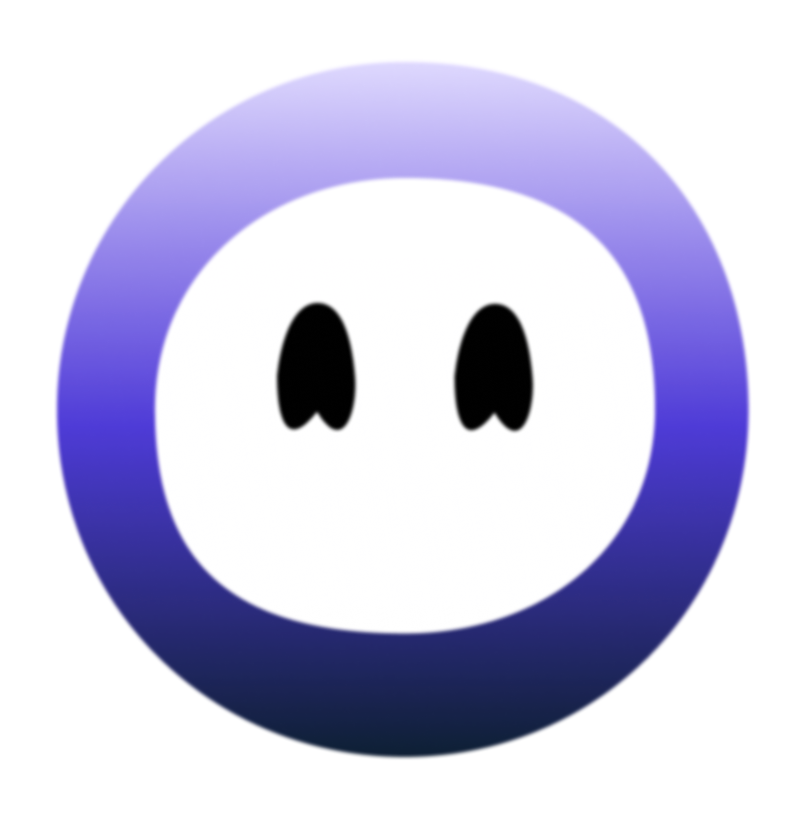
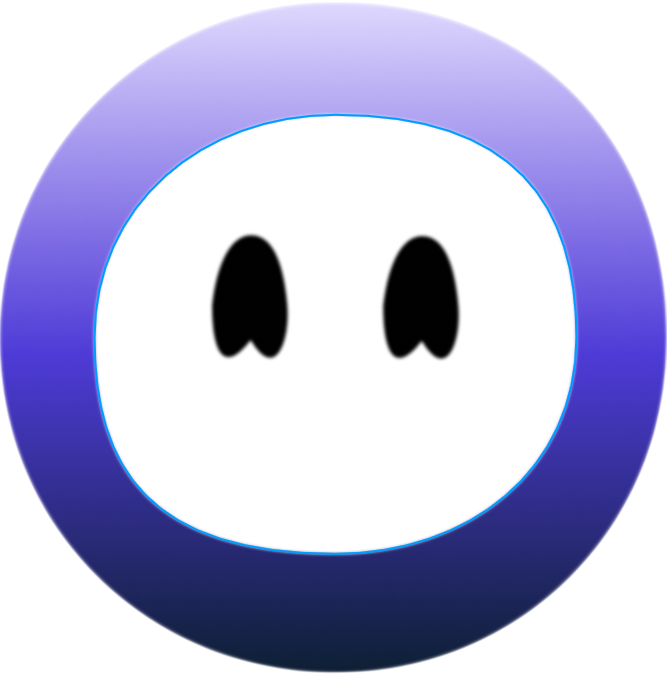
transparent bg

diff --git a/app/page.tsx b/app/page.tsx
@@ -104,7 +104,7 @@ export default function LandingPage() {
           <div className="flex items-center gap-2 font-bold">
             {mounted && (
               <Image
-                src={theme === "dark" ? "/icon-black-bg.png" : "/icon-white-bg.png"}
+                src="/icon2.png"
                 alt="Megan"
                 width={32}
                 height={32}
@@ -207,9 +207,9 @@ export default function LandingPage() {
                 {t('heroSubtitle')}
               </p>
               <div className="flex flex-col sm:flex-row gap-4 justify-center">
-                <Link href={isAuth ? "/account" : "/auth"}>
+                <Link href={"https://chromewebstore.google.com/detail/Megan:%20Your%20AI%20assistant/pjlfhimkiplnokedfbefdifljllolamg?hl=en-GB&utm_source=ext_sidebar"}>
                   <Button size="lg" className="rounded-full h-12 px-8 text-base bg-gradient-to-r from-purple-600 to-purple-1200 hover:from-purple-600 hover:to-purple-700 text-white border-none">
-                    {t('getStarted')}
+                    {t('addToChrome')}
                     <ArrowRight className="ml-2 size-4" />
                   </Button>
                 </Link>
@@ -657,7 +657,7 @@ export default function LandingPage() {
               <div className="flex items-center gap-2 font-bold">
                 {mounted && (
                   <Image
-                    src={theme === "light" ? "/icon-white-bg.png" : "/icon-black-bg.png"}
+                    src="/icon2.png"
                     alt="Megan"
                     width={32}
                     height={32}

diff --git a/lib/i18n.ts b/lib/i18n.ts
@@ -27,7 +27,8 @@ export const translations = {
         // Hero section
         heroTitle: 'Streamline Your Web Experience',
         heroSubtitle: 'Boost productivity, talk with browser, feel relaxed',
-        getStarted: 'Get Started',
+        getStarted: "Get started",
+        addToChrome: "Add to chrome - It's free",
         noCreditCard: 'No credit card',
         sevenDayTrial: '7-day trial',
         cancelAnytime: 'Cancel anytime',
@@ -436,6 +437,7 @@ export const translations = {
         heroTitle: 'Оптимизируйте Ваш Веб-Опыт',
         heroSubtitle: 'Повысьте продуктивность, общайтесь с браузером, чувствуйте себя расслабленно',
         getStarted: 'Начать',
+        addToChrome: 'Добавить в chrome - это бесплатно',
         noCreditCard: 'Без кредитной карты',
         sevenDayTrial: '7-дневный пробный период',
         cancelAnytime: 'Отменить в любое время',

diff --git a/app/contact/page.tsx b/app/contact/page.tsx
@@ -31,7 +31,7 @@ export default function ContactPage() {
                     <Link href="/" className="flex items-center gap-2 font-bold hover:opacity-80 transition-opacity">
                         <div className="size-8 rounded-lg bg-gradient-to-br from-primary to-primary/70 flex items-center justify-center text-primary-foreground">
                             {mounted && (
-                                <img src={theme === "dark" ? "/icon-black-bg.png" : "/icon-white-bg.png"} alt="Megan" className="size-8" />
+                                <img src="/icon2.png" alt="Megan" className="size-8" />
                             )}
                         </div>
                         <span>Megan</span>

diff --git a/app/privacy/page.tsx b/app/privacy/page.tsx
@@ -35,7 +35,7 @@ export default function PrivacyPage() {
                     <Link href="/" className="flex items-center gap-2 font-bold hover:opacity-80 transition-opacity">
                         <div className="size-8 rounded-lg bg-gradient-to-br from-primary to-primary/70 flex items-center justify-center text-primary-foreground">
                             {mounted && (
-                                <img src={theme === "dark" ? "/icon-black-bg.png" : "/icon-white-bg.png"} alt="Megan" className="size-8" />
+                                <img src="/icon2.png" alt="Megan" className="size-8" />
                             )}
                         </div>
                         <span>Megan</span>

diff --git a/app/about/page.tsx b/app/about/page.tsx
@@ -30,7 +30,7 @@ export default function AboutPage() {
                     <Link href="/" className="flex items-center gap-2 font-bold hover:opacity-80 transition-opacity">
                         <div className="size-8 rounded-lg bg-gradient-to-br from-primary to-primary/70 flex items-center justify-center text-primary-foreground">
                             {mounted && (
-                                <img src={theme === "dark" ? "/icon-black-bg.png" : "/icon-white-bg.png"} alt="Megan" className="size-8" />
+                                <img src="/icon2.png" alt="Megan" className="size-8" />
                             )}
                         </div>
                         <span>Megan</span>

diff --git a/app/terms/page.tsx b/app/terms/page.tsx
@@ -29,7 +29,7 @@ export default function TermsPage() {
                     <Link href="/" className="flex items-center gap-2 font-bold hover:opacity-80 transition-opacity">
                         <div className="size-8 rounded-lg bg-gradient-to-br from-primary to-primary/70 flex items-center justify-center text-primary-foreground">
                             {mounted && (
-                                <img src={theme === "dark" ? "/icon-black-bg.png" : "/icon-white-bg.png"} alt="Megan" className="size-8" />
+                                <img src="/icon2.png" alt="Megan" className="size-8" />
                             )}
                         </div>
                         <span>Megan</span>

diff --git a/app/confirm-password/page.tsx b/app/confirm-password/page.tsx
@@ -29,7 +29,7 @@ export default function ConfirmPasswordPage() {
                         <ArrowLeft className="size-4" />
                         <div className="flex items-center gap-2">
                             <div className="size-8 rounded-lg bg-gradient-to-br from-primary to-primary/70 flex items-center justify-center text-primary-foreground">
-                                <img src={theme === "dark" ? "/icon-black-bg.png" : "/icon-white-bg.png"} alt="Megan" className="size-8" />
+                                <img src="/icon2.png" alt="Megan" className="size-8" />
                             </div>
                             <span>Megan</span>
                         </div>

diff --git a/app/confirm-email/page.tsx b/app/confirm-email/page.tsx
@@ -28,7 +28,7 @@ export default function ConfirmEmailPage() {
                         <ArrowLeft className="size-4" />
                         <div className="flex items-center gap-2">
                             <div className="size-8 rounded-lg bg-gradient-to-br from-primary to-primary/70 flex items-center justify-center text-primary-foreground">
-                                <img src={theme === "light" ? "/icon-white-bg.png" : "/icon-black-bg.png"} alt="Megan" className="size-8" />
+                                <img src="/icon2.png" alt="Megan" className="size-8" />
                             </div>
                             <span>Megan</span>
                         </div>

diff --git a/app/auth/page.tsx b/app/auth/page.tsx
@@ -274,7 +274,7 @@ export default function AuthPage() {
             <div className="flex items-center gap-2">
               <div className="size-8 rounded-lg bg-gradient-to-br from-primary to-primary/70 flex items-center justify-center text-primary-foreground">
                 {mounted && (
-                  <img src={theme === "dark" ? "/icon-black-bg.png" : "/icon-white-bg.png"} alt="Megan" className="size-8" />
+                  <img src="/icon2.png" alt="Megan" className="size-8" />
                 )}
               </div>
               <span>Megan</span>

diff --git a/app/not-found.tsx b/app/not-found.tsx
@@ -22,7 +22,7 @@ export default function NotFound() {
             >
                 <div className="size-28 rounded-full bg-gradient-to-br from-primary to-primary/70 flex items-center justify-center text-primary-foreground shadow-2xl">
                     <img
-                        src={theme === "dark" ? "/icon-black-bg.png" : "/icon-white-bg.png"}
+                        src="/icon2.png"
                         alt="Avatar"
                         className="size-28 rounded-full"
                     />

diff --git a/app/account/page.tsx b/app/account/page.tsx
@@ -194,7 +194,7 @@ export default function AccountPage() {
                     >
                         <Link href="/">
                             <img
-                                src={theme === "light" ? "/icon-white-bg.png" : "/icon-black-bg.png"}
+                                src="/icon2.png"
                                 alt="Megan"
                                 className="size-10"
                             />
